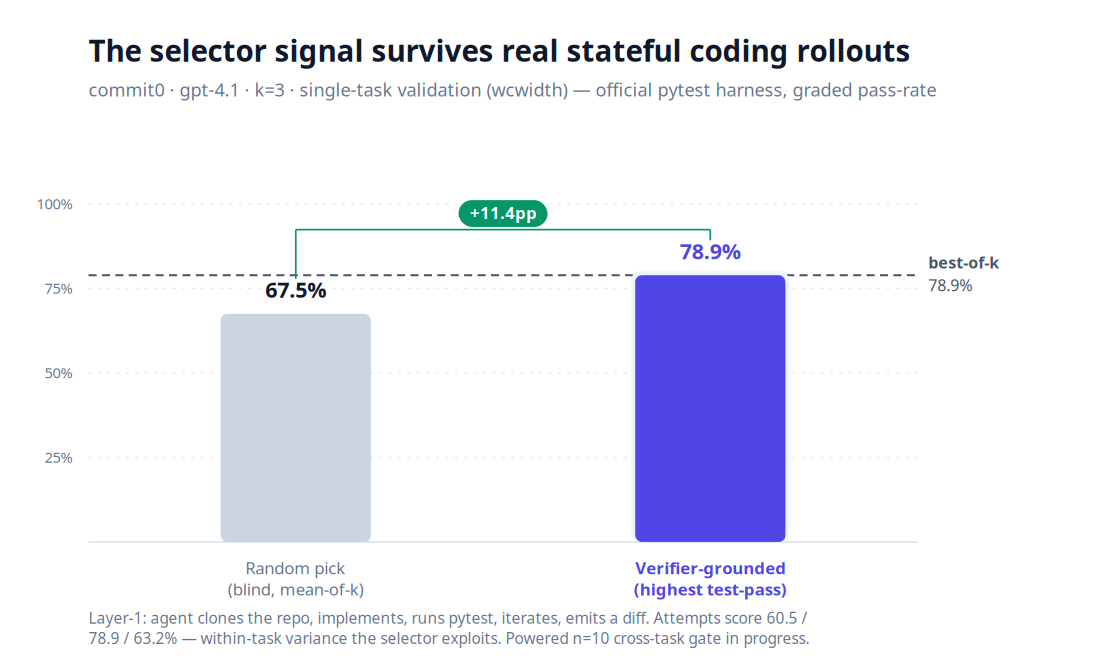
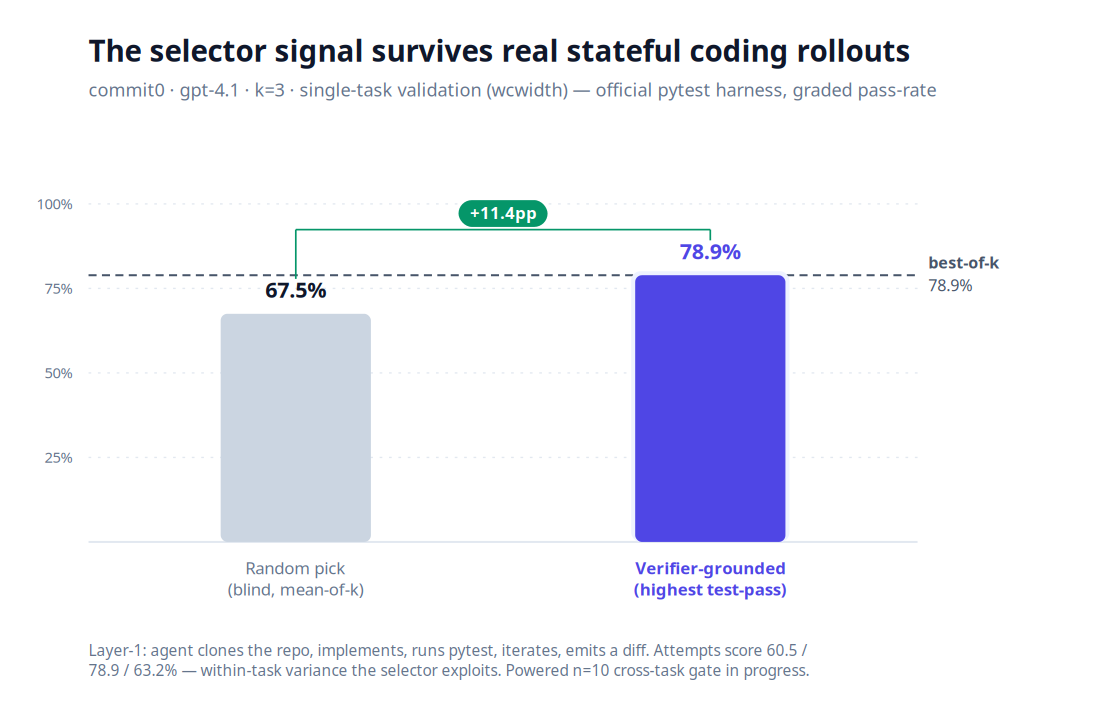
docs(results): re-confirm HumanEval gate (+10pp) — independent n=50 reproduction
The PR premise-check asked to re-verify the +12pp claim. Re-ran the HumanEval gate
(bench/src/humaneval-gate.mts, n=50 k=4 gpt-3.5-turbo, local docker + direct router —
sandbox-independent): verifier−self-consistency = +10.0pp CI[+2,+18], BH-positive;
verifier-pick captures the full oracle ceiling (gap 0); sc−random −12pp; diverse−random
−2pp n.s. (the win is the selector, not diversity); 0 leaked containers. Reproduces the
prior +12pp CI[+4,+22] — the shift is gpt-3.5 temp-0.8 sampling variance, same result.

Chart + results.md updated to the fresh verified run (framed as reproduced).

diff --git a/docs/results.md b/docs/results.md
@@ -14,9 +14,12 @@ charts hold to.
 
 Generate k=4 completions, then **re-run each one against the task's own unit tests** (gold never
 shown) and keep the highest-passing. On HumanEval (gpt-3.5-turbo, n=50) this **captures the full
-oracle ceiling — 94%, gap 0** — while self-consistency, the standard deployable selector, leaves
-**12pp on the table** (`verifier − self-consistency = +12.0pp, CI[+4, +22]`, paired bootstrap +
-Benjamini–Hochberg). The first admissible non-blind selection win.
+oracle ceiling — gap 0** — while self-consistency, the standard deployable selector, leaves
+**~10pp on the table** (`verifier − self-consistency = +10.0pp, CI[+2, +18]`, paired bootstrap +
+Benjamini–Hochberg). **Reproduced across two independent n=50 runs** (+10pp / +12pp, both
+BH-positive — the shift is gpt-3.5 sampling variance, not a different result). The win is the
+*selector*, not strategy diversity (diverse@k − random@k = −2pp, n.s.). The first admissible
+non-blind selection win.
 
 ## The signal survives real stateful coding rollouts (commit0)
 
